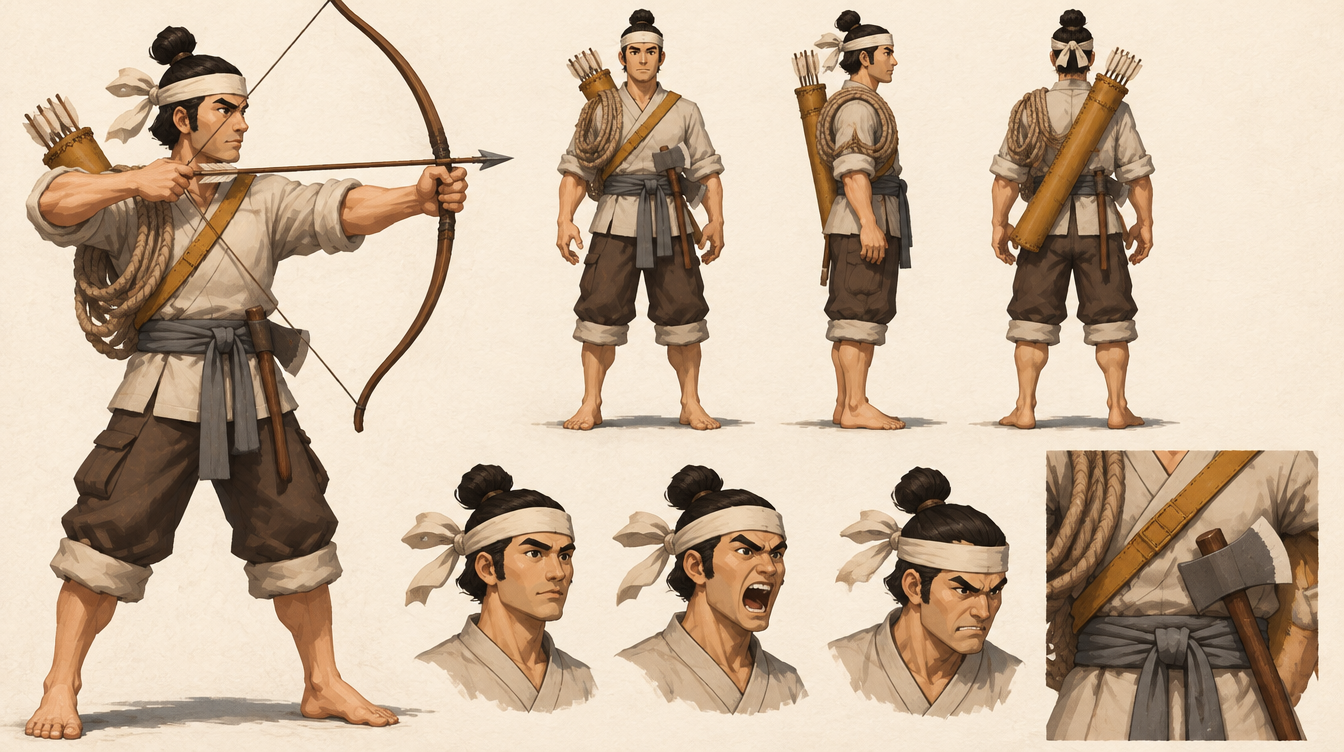
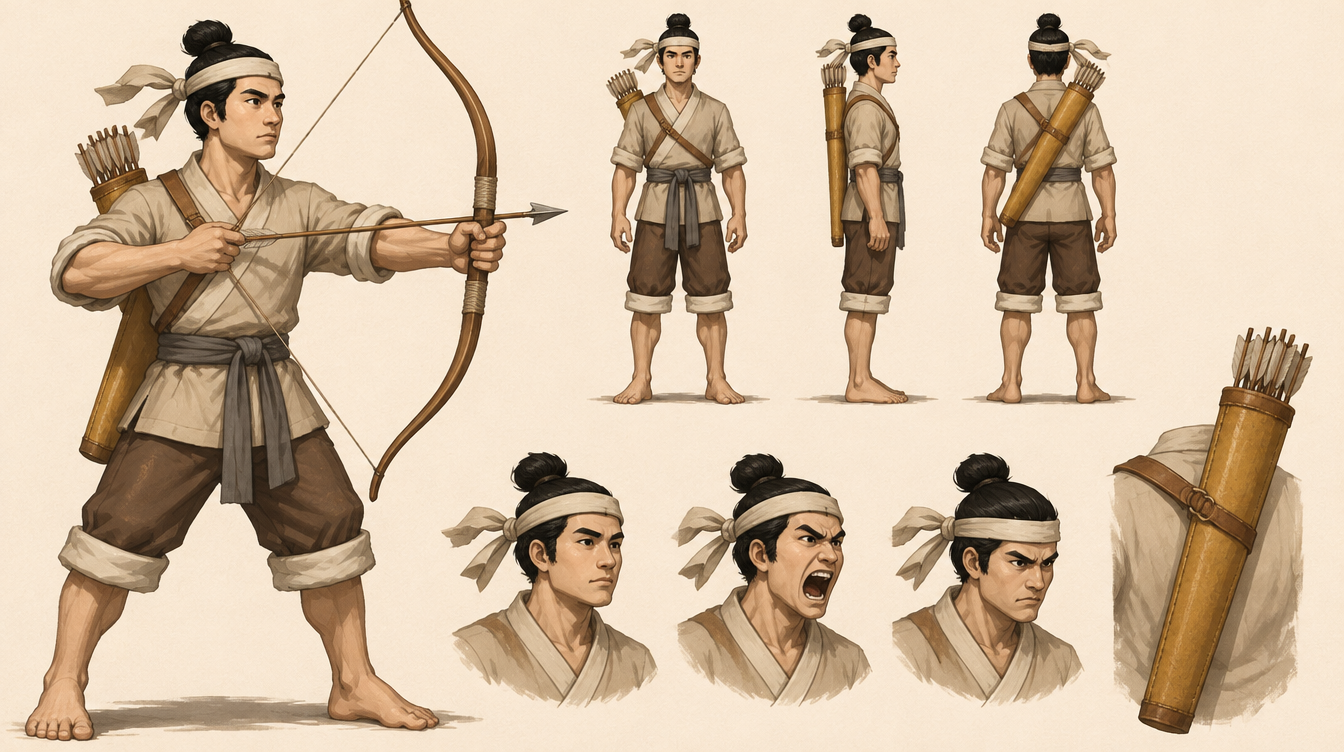
Thủy binh cung thủ: bỏ cuộn dây và rìu
Claude-Session: https://claude.ai/code/session_01JLSNBEZAQYaaf5bHkUdgrp

diff --git a/docs/art/character-sheets.md b/docs/art/character-sheets.md
@@ -175,7 +175,7 @@ Ghi chú chạy lại: `undead_human_cavalry` đã thay bằng bản nón trận
 
 ## Sheet bổ sung (đơn vị còn lại)
 
-- `marine_archer_human_a` / `_b`: thủy binh hoá cung thủ, **không vẽ thuyền**, chân đất để đứng vững trên thuyền, giữ nguyên khăn, áo, quần, cuộn dây như bản trên bờ, thêm cung và ống tên dài cứng, rìu giắt hông (theo sprite `human_marine`). Thay cho panel cận cảnh bị sai trong `marine_human` và bản thuyền đã bỏ.
+- `marine_archer_human_a` / `_b`: thủy binh hoá cung thủ, **không vẽ thuyền**, chân đất để đứng vững trên thuyền, giữ nguyên khăn, áo, quần như bản trên bờ, thêm cung và ống tên dài cứng; đã bỏ cuộn dây và rìu theo yêu cầu (theo sprite `human_marine`). Thay cho panel cận cảnh bị sai trong `marine_human` và bản thuyền đã bỏ.
 - `camp_human`, `camp_orc`: trại mục tiêu của nhiệm vụ phá trại. Chưa có sprite pixel nên vẽ từ mô tả chữ; chi tiết như cờ rồng ở trại người là model tự thêm, cần đổi nếu muốn khớp biểu tượng trong game (mặt trời cam-đỏ trên nền xanh).
 
 Toàn bộ sheet nằm trong `docs/art/sheets/` (24 file), lọc từ đây.
